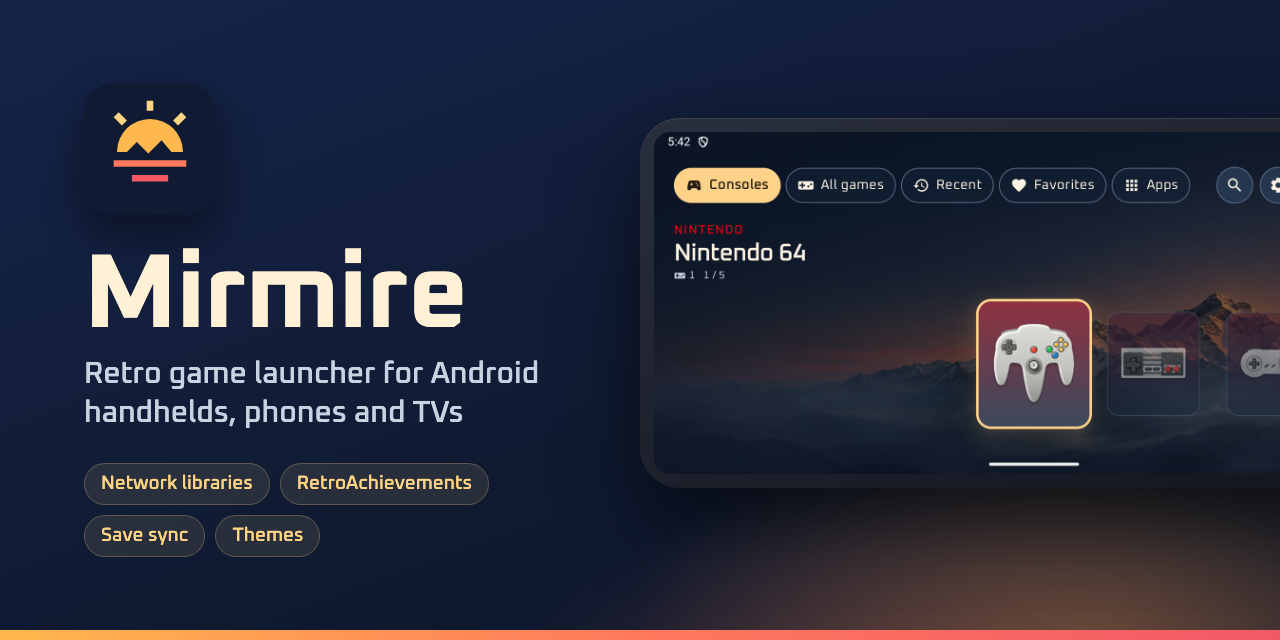
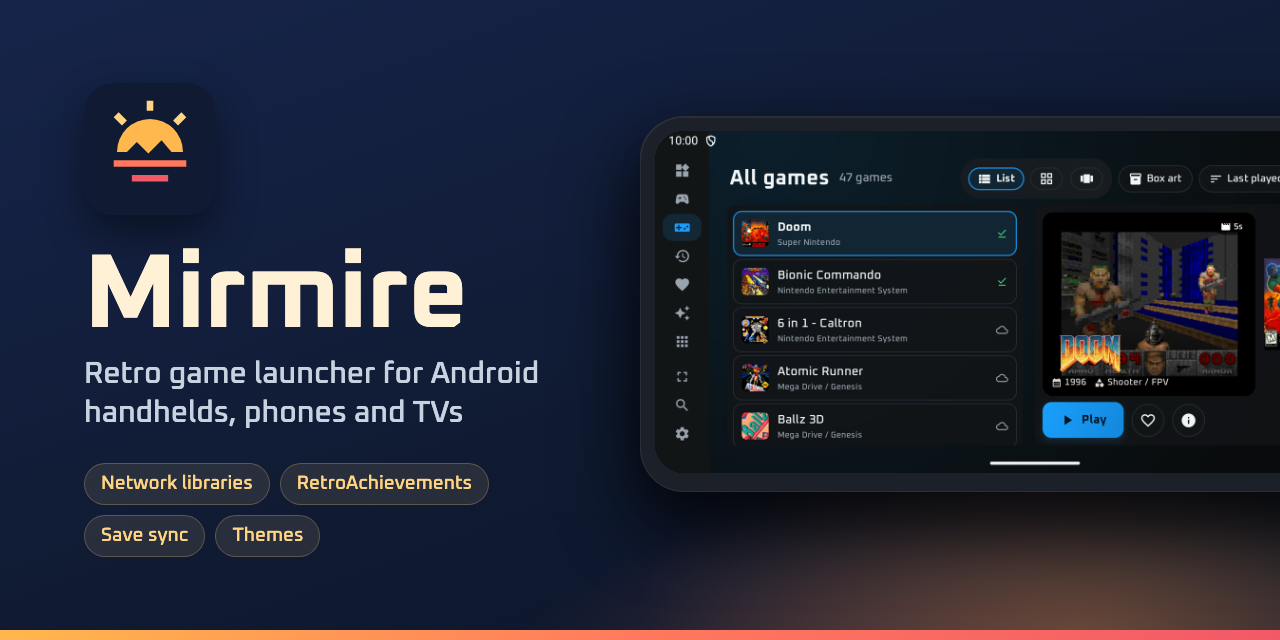
Use the Mirmire-theme Theme Studio shot in the README and refresh the social preview.

Changed region(s): [[0.5, 0.1562, 1.0, 0.75]]

diff --git a/README.md b/README.md
@@ -104,7 +104,7 @@ On Retroid and AYN handhelds, the stick lights follow the theme, the battery lev
 
 Download the ZIP and import it in **Settings › Look**. See [Make your own themes and icon packs](docs/CREATING.md) and [Make widget plugins](docs/PLUGINS.md).
 
-![Console themes](screenshots/60-console-themes.jpg)
+![Theme Studio with a live preview of a Mirmire theme remix](docs/images/site/theme-studio.jpg)
 
 ## Download
 
